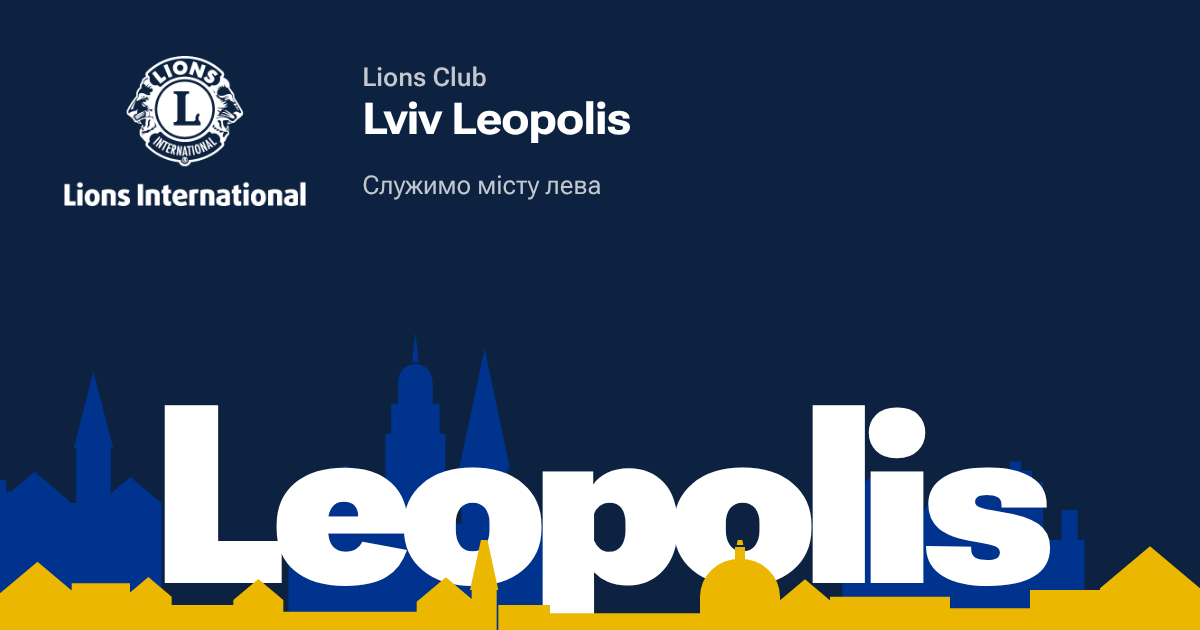
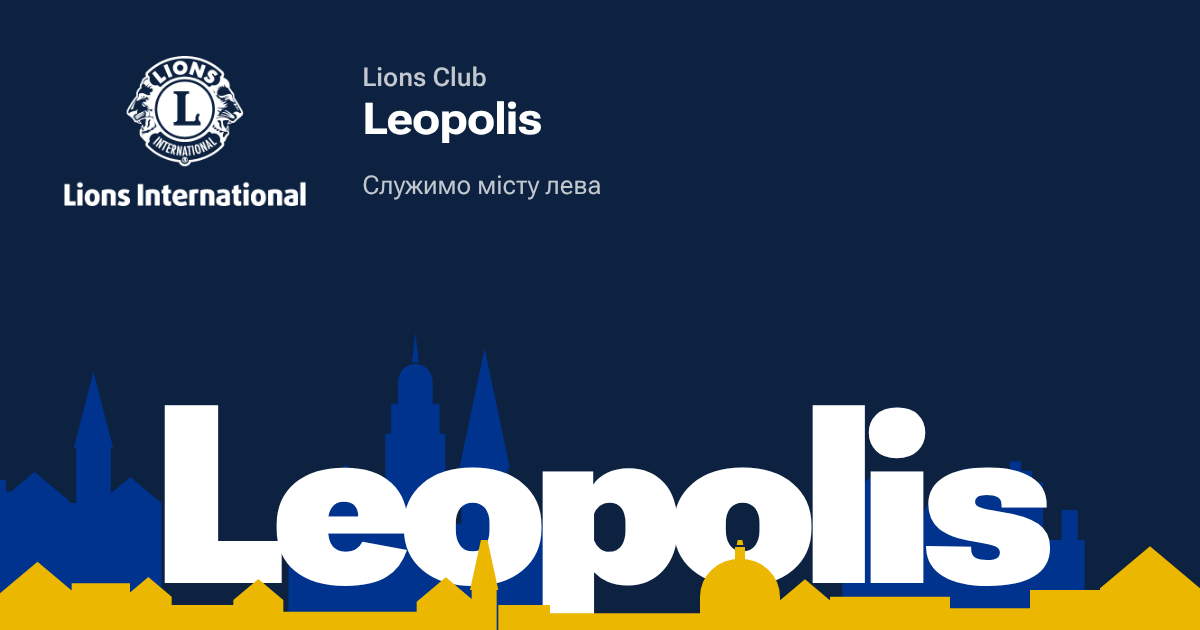
Назва клубу: Lions Club Leopolis
Публічна назва на сайті, у шапці, мета-тегах, OG-картці, RSS, ICS,
документації та брендових правилах. Запис у реєстрі LCI Lviv (Leopolis)
позначено як такий, що погоджується з District 134.

Claude-Session: https://claude.ai/code/session_01Ex7vU8xr7Nf3F5cdVpqWWK

Changed region(s): [[0.3083, 0.1508, 0.5242, 0.2413]]

diff --git a/src/pages/news.xml.ts b/src/pages/news.xml.ts
@@ -10,7 +10,7 @@ export const GET: APIRoute = ({ site }) => {
     <item><title>${esc(n.title)}</title><link>${link(`/news/${n.slug}`)}</link><guid>${link(`/news/${n.slug}`)}</guid>
     <pubDate>${new Date(n.date).toUTCString()}</pubDate><description>${esc(n.excerpt)}</description></item>`).join('');
   const xml = `<?xml version="1.0" encoding="UTF-8"?><rss version="2.0"><channel>
-    <title>Lions Club Lviv Leopolis: новини</title><link>${link('/')}</link><language>uk</language>
+    <title>Lions Club Leopolis: новини</title><link>${link('/')}</link><language>uk</language>
     <description>Новини клубу Lions International у Львові</description>${items}</channel></rss>`;
   return new Response(xml, { headers: { 'Content-Type': 'application/rss+xml; charset=utf-8' } });
 };

diff --git a/src/data/brand.ts b/src/data/brand.ts
@@ -47,8 +47,8 @@ export const nameRules = [
   ['Друга і наступні згадки', 'Lions International'],
   ['Клуби загалом', 'Lions club, Lions clubs (мала літера c)'],
   ['Члени організації', 'Lions, завжди з великої'],
-  ['Наш клуб', 'Lions Club Lviv Leopolis'],
-  ['Запис у реєстрі LCI', 'Lviv (Leopolis)'],
+  ['Наш клуб', 'Lions Club Leopolis'],
+  ['Запис у реєстрі LCI', 'Lviv (Leopolis), погоджується з District 134'],
   ['Девіз', 'We Serve™, торговельна марка, не перекладаємо в логотипі'],
 ];
 

diff --git a/src/lib/ics.ts b/src/lib/ics.ts
@@ -27,11 +27,11 @@ export function icsEvent(e: IcsEvent): string {
   ].filter(Boolean).join('\r\n');
 }
 
-export function icsCalendar(events: IcsEvent[], name = 'Lions Club Lviv Leopolis'): string {
+export function icsCalendar(events: IcsEvent[], name = 'Lions Club Leopolis'): string {
   return [
     'BEGIN:VCALENDAR',
     'VERSION:2.0',
-    'PRODID:-//Lions Club Lviv Leopolis//UK',
+    'PRODID:-//Lions Club Leopolis//UK',
     'CALSCALE:GREGORIAN',
     `X-WR-CALNAME:${esc(name)}`,
     'X-WR-TIMEZONE:Europe/Kyiv',

diff --git a/src/styles/global.css b/src/styles/global.css
@@ -2,7 +2,7 @@
 @import "@fontsource-variable/roboto-flex/standard.css";
 
 /* ------------------------------------------------------------------
-   Дизайн-токени Lions Club Lviv Leopolis
+   Дизайн-токени Lions Club Leopolis
    Кольори: Lions International Brand Guidelines (Pantone 287 / 7406 / Cool Gray 11).
    Жовтий звірити з актуальним PDF бренду перед релізом.
 ------------------------------------------------------------------- */

diff --git a/src/data/site.ts b/src/data/site.ts
@@ -5,8 +5,8 @@ export const DEMO = true;
 // Реальні дані: сторінка клубу у Facebook (перевірено 26.11.2026)
 // https://www.facebook.com/people/Lviv-International-Lions-Club/61595416070045/
 export const club = {
-  name: 'Lions Club Lviv Leopolis',
-  shortName: 'Lviv Leopolis',
+  name: 'Lions Club Leopolis',
+  shortName: 'Leopolis',
   lciRecord: 'Lviv (Leopolis)',
   facebookName: 'Lviv International Lions Club',
   district: 'District 134, Україна',

diff --git a/CLAUDE.md b/CLAUDE.md
@@ -1,7 +1,7 @@
 # Контекст для Claude Code
 
-Сайт Lions Club Lviv Leopolis (офіційний запис LCI: Lviv (Leopolis)). Другий Lions club у Львові: ніколи не позиціонуй його як єдиний чи головний.
-Повне ТЗ: документ «ТЗ: сайт Lions Club Lviv Leopolis» (розділ 9 містить промпт).
+Сайт Lions Club Leopolis (офіційний запис LCI: Lviv (Leopolis)). Другий Lions club у Львові: ніколи не позиціонуй його як єдиний чи головний.
+Повне ТЗ: документ «ТЗ: сайт Lions Club Leopolis» (розділ 9 містить промпт).
 
 ## Стан
 - Етап 1 (MVP) зроблено в демо-режимі: Astro 7 + Tailwind 4, статична збірка, GitHub Pages.

diff --git a/README.md b/README.md
@@ -1,4 +1,4 @@
-# Lions Club Lviv Leopolis: сайт клубу
+# Lions Club Leopolis: сайт клубу
 
 Сайт другого клубу Lions International у Львові. Офіційний запис у реєстрі LCI: **Lviv (Leopolis)**.
 Цільовий домен: `leopolislions.org.ua` (редирект з `lionsleopolis.org.ua`).
